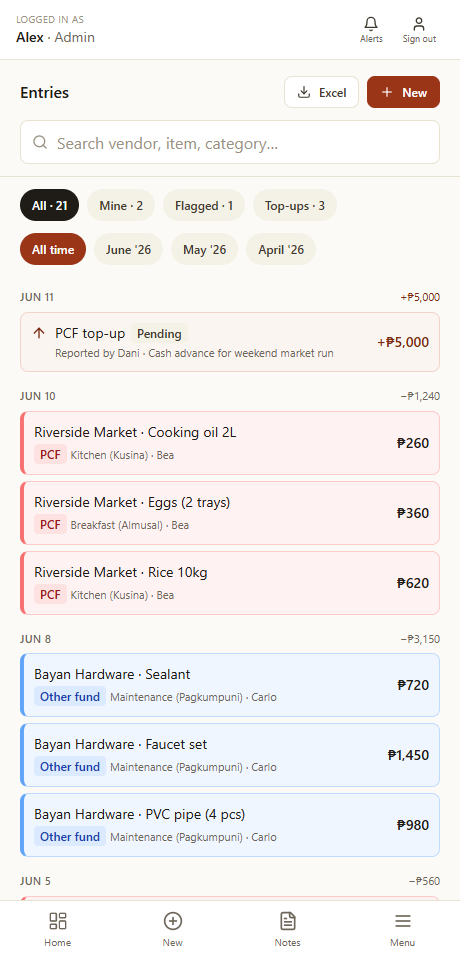
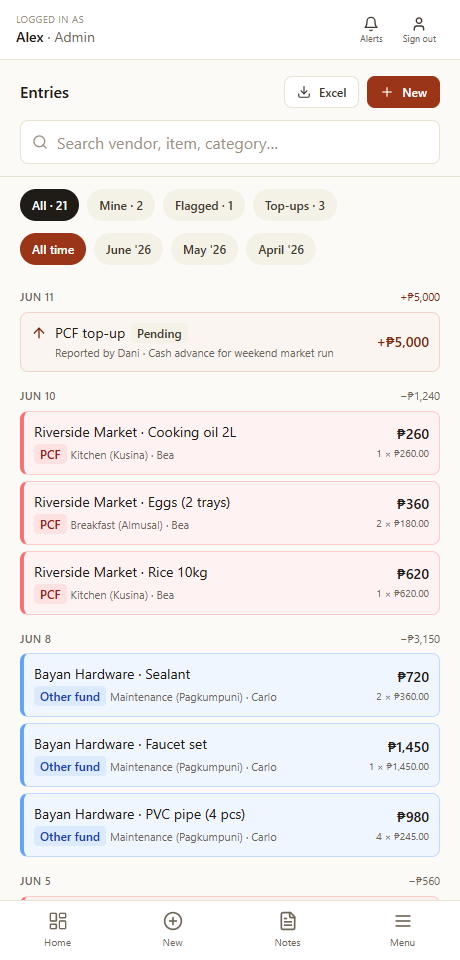
Refresh portfolio: Excel picker shot + qty breakdown in feeds
Added a 13-excel-export screenshot (the date-range download picker) and a PDF
page for it; recaptured the entries and guest-feed shots now that rows show
qty x unit price.

diff --git a/scripts/build-demo-pdf.py b/scripts/build-demo-pdf.py
@@ -24,6 +24,7 @@ PAGES = [
     ("02-dashboard.png", "Owner dashboard", "Petty-cash balance, what needs review, a one-tap expense log, and spend by tag as a pie or bar chart."),
     ("11-analytics.png", "Analytics & insights", "Tap a chart to drill in. Filter by month(s) and tag with checkboxes; see spend by staff and funding source, trends, and plain-language recommendations."),
     ("03-entries.png", "Expense ledger", "Every expense and top-up, colour-coded by funding source (petty cash vs. other), searchable and filterable by month."),
+    ("13-excel-export.png", "Excel export", "Export to Excel by month, several months, or a whole year. The workbook lands clean: sorted by date, money formatted, internal IDs dropped."),
     ("04-entry-detail.png", "Entry & receipt", "Each line item links to its receipt photo, edit history, and an internal note thread."),
     ("05-review.png", "Review queue", "Duplicates, arithmetic slips, and unusual amounts are flagged automatically; top-ups await the owner's approval."),
     ("10-pcf.png", "Petty cash", "Top-ups are reported by staff and approved or rejected with a reason; every expense draws the balance down."),